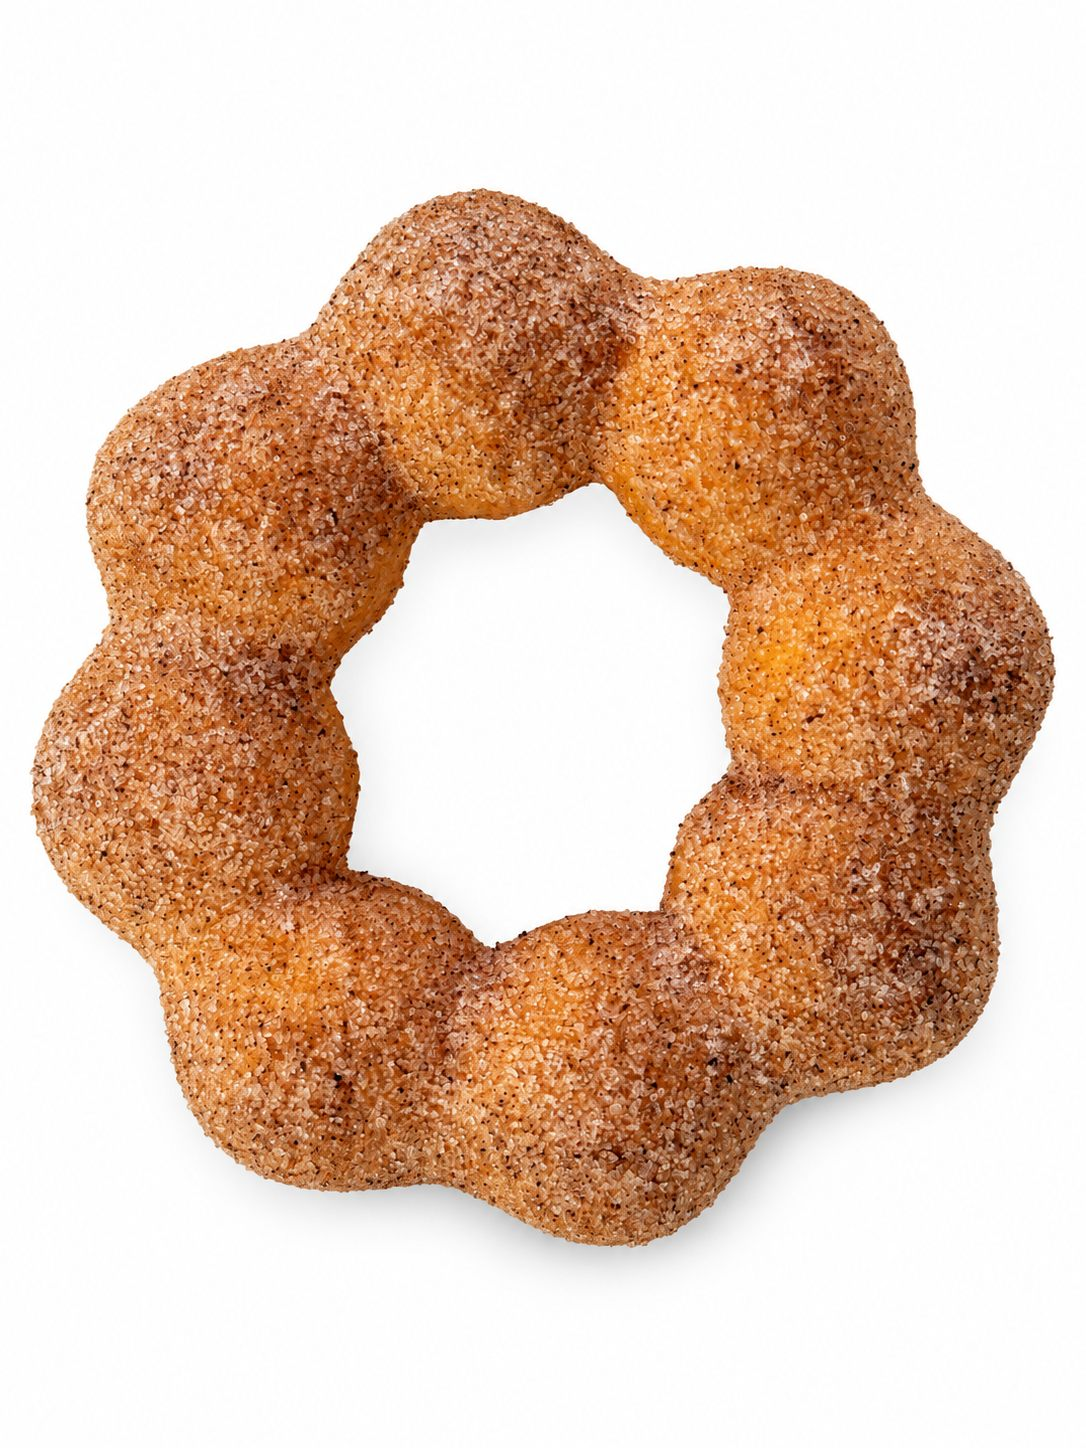
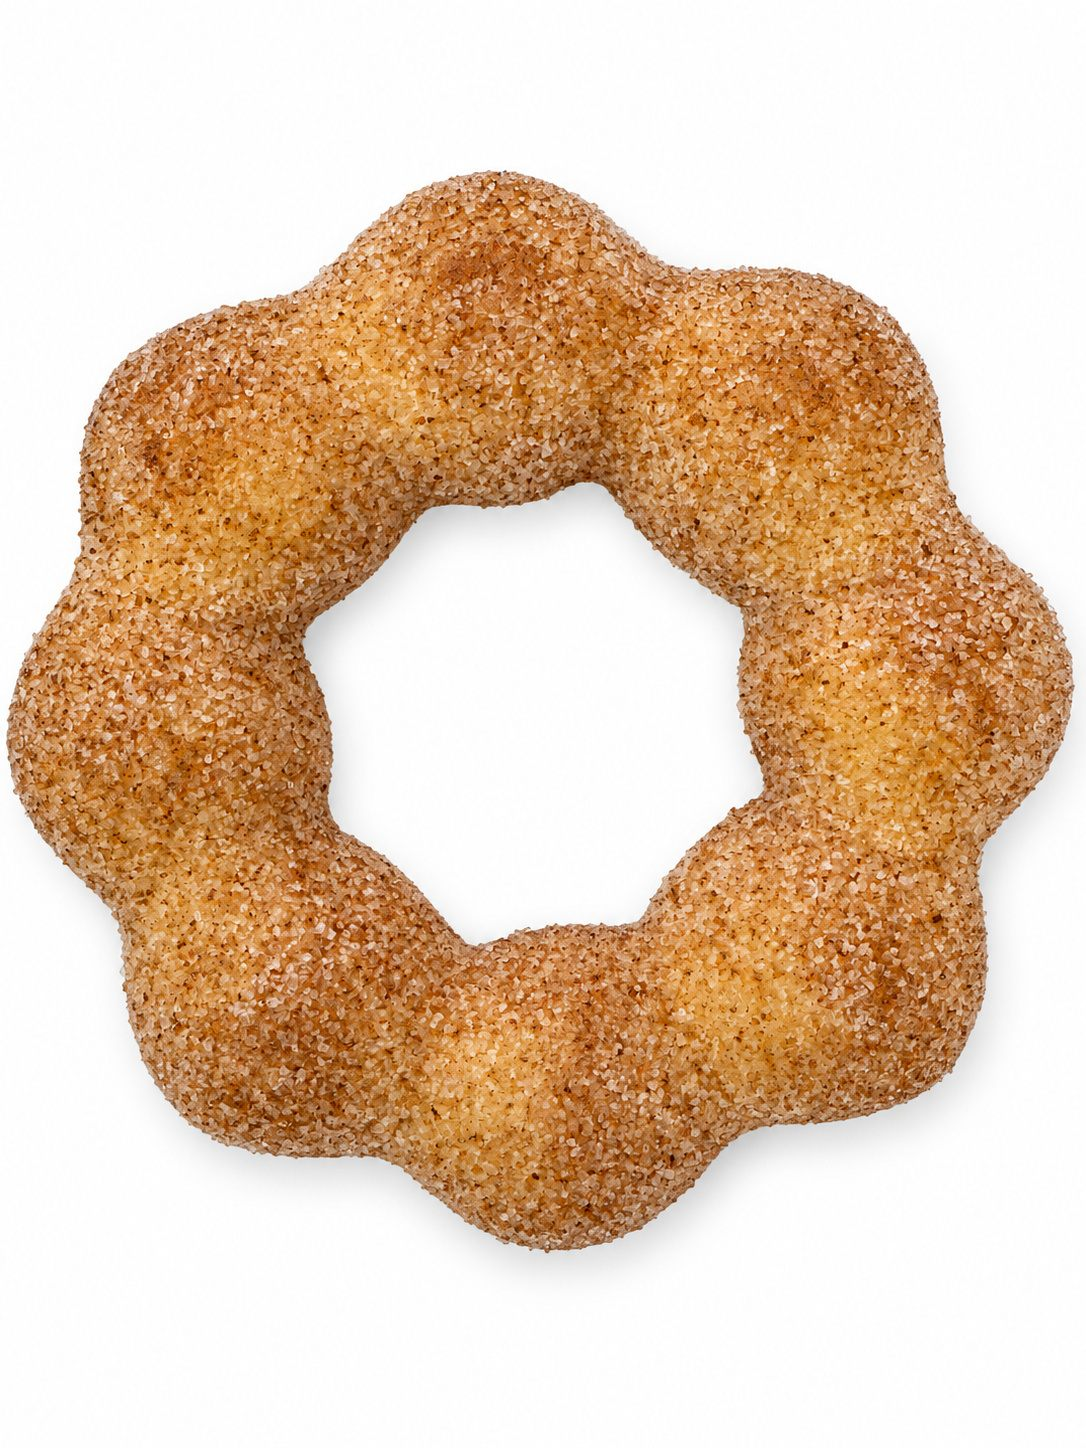
Add files via upload

diff --git a/index.html b/index.html
@@ -442,7 +442,7 @@
     <div class="week-redesign">
       <div class="week-hero-split">
         <div class="week-hero-photo" id="week-feature-card">
-          <img class="week-hero-img" id="week-feature-img" src="ChocolateSprinkles-hero.jpg" alt="Chocolate Sprinkles mochi donut" loading="lazy"/>
+          <img class="week-hero-img" id="week-feature-img" src="LavenderLemonCookie-hero.jpg" alt="Lavender Lemon Cookie mochi donut" loading="lazy"/>
           <div class="week-hero-scrim"></div>
           <svg class="week-doodle week-doodle-1" viewBox="0 0 60 60" aria-hidden="true"><circle cx="30" cy="30" r="20" fill="none" stroke="#fff" stroke-width="2" opacity=".5"/><circle cx="30" cy="30" r="7" fill="none" stroke="#fff" stroke-width="2" opacity=".5"/></svg>
           <svg class="week-doodle week-doodle-2" viewBox="0 0 60 70" aria-hidden="true"><path d="M14 22h32l-4 40a4 4 0 0 1-4 4H22a4 4 0 0 1-4-4z" fill="none" stroke="#fff" stroke-width="2" opacity=".5"/><path d="M20 22a10 10 0 0 1 20 0" fill="none" stroke="#fff" stroke-width="2" opacity=".5"/></svg>
@@ -450,7 +450,7 @@
           <button class="week-arrow week-arrow-onphoto-right" data-dir="next" aria-label="Next flavor">&#8250;</button>
           <div class="week-hero-overlay">
             <span class="week-feature-badge" id="week-feature-badge">Featured Flavor</span>
-            <h3 class="week-feature-name" id="week-feature-name">Chocolate Sprinkles</h3>
+            <h3 class="week-feature-name" id="week-feature-name">Lavender Lemon Cookie</h3>
             <p class="week-feature-desc" id="week-feature-desc" style="display:none"></p>
             <div class="week-feature-icons">
               <div class="wfi wfi-onphoto"><svg viewBox="0 0 24 24" fill="none" stroke="currentColor" stroke-width="1.8" stroke-linecap="round" stroke-linejoin="round"><circle cx="12" cy="12" r="9"/><path d="M12 7v5l3 3"/></svg><span>Made Fresh Daily</span></div>
@@ -465,7 +465,7 @@
         <div class="week-side fade-in-scroll">
           <svg class="week-side-icon" viewBox="0 0 24 24" fill="none" stroke="var(--pink)" stroke-width="1.8" stroke-linecap="round" stroke-linejoin="round" aria-hidden="true"><circle cx="12" cy="12" r="9"/><circle cx="12" cy="12" r="3"/></svg>
           <span class="tag">Mochi Donuts</span>
-          <h2 class="week-h2 week-side-name" id="week-side-name">Chocolate Sprinkles <span class="week-heart">&#9825;</span></h2>
+          <h2 class="week-h2 week-side-name" id="week-side-name">Lavender Lemon Cookie <span class="week-heart">&#9825;</span></h2>
           <p class="week-desc week-side-desc" id="week-side-desc">Handcrafted fresh every morning in small batches with lots of love.</p>
           <div class="week-side-btns">
             <a href="https://bestiesboba.square.site/" target="_blank" rel="noopener noreferrer"><button class="btn-fill btn-big btn-icon"><svg viewBox="0 0 24 24" fill="none" stroke="currentColor" stroke-width="2" stroke-linecap="round" stroke-linejoin="round"><path d="M6 2 3 6v14a2 2 0 0 0 2 2h14a2 2 0 0 0 2-2V6l-3-4Z"/><path d="M3 6h18"/><path d="M16 10a4 4 0 0 1-8 0"/></svg>Order Now</button></a>
@@ -479,15 +479,15 @@
         <div class="week-thumb-row">
         <button class="week-arrow week-arrow-small" data-dir="prev" aria-label="Previous flavor">&#8249;</button>
         <div class="week-thumbs" id="week-thumbs">
-          <button class="week-thumb is-active" data-index="0" data-img="ChocolateSprinkles-hero.jpg" data-name="Chocolate Sprinkles" data-desc="" data-badge="Featured Flavor"><img src="ChocolateSprinkles-thumb.jpg" alt="Chocolate Sprinkles" loading="lazy"/></button>
-          <button class="week-thumb" data-index="1" data-img="OrangeCreamsicle-hero.jpg" data-name="Orange Creamsicle" data-desc="" data-badge=""><img src="OrangeCreamsicle-thumb.jpg" alt="Orange Creamsicle" loading="lazy"/></button>
-          <button class="week-thumb" data-index="2" data-img="MaplePecan-hero.jpg" data-name="Maple Pecan" data-desc="" data-badge=""><img src="MaplePecan-thumb.jpg" alt="Maple Pecan" loading="lazy"/></button>
-          <button class="week-thumb" data-index="3" data-img="FunnelCake-hero.jpg" data-name="Funnel Cake" data-desc="" data-badge=""><img src="FunnelCake-thumb.jpg" alt="Funnel Cake" loading="lazy"/></button>
-          <button class="week-thumb" data-index="4" data-img="CookieMonster-hero.jpg" data-name="Cookie Monster" data-desc="" data-badge=""><img src="CookieMonster-thumb.jpg" alt="Cookie Monster" loading="lazy"/></button>
-          <button class="week-thumb" data-index="5" data-img="ChocolateBiscoff-hero.jpg" data-name="Chocolate Biscoff" data-desc="" data-badge=""><img src="ChocolateBiscoff-thumb.jpg" alt="Chocolate Biscoff" loading="lazy"/></button>
-          <button class="week-thumb" data-index="6" data-img="StrawberryWafer-hero.jpg" data-name="Strawberry Wafer" data-desc="" data-badge=""><img src="StrawberryWafer-thumb.jpg" alt="Strawberry Wafer" loading="lazy"/></button>
-          <button class="week-thumb" data-index="7" data-img="CinnamonPebbles-hero.jpg" data-name="Cinnamon Pebbles" data-desc="" data-badge=""><img src="CinnamonPebbles-thumb.jpg" alt="Cinnamon Pebbles" loading="lazy"/></button>
-          <button class="week-thumb" data-index="8" data-img="UbeCookiesCream-hero.jpg" data-name="Ube Cookies &amp; Cream" data-desc="" data-badge=""><img src="UbeCookiesCream-thumb.jpg" alt="Ube Cookies &amp; Cream" loading="lazy"/></button>
+          <button class="week-thumb is-active" data-index="0" data-img="LavenderLemonCookie-hero.jpg" data-name="Lavender Lemon Cookie" data-desc="" data-badge="Featured Flavor"><img src="LavenderLemonCookie-thumb.jpg" alt="Lavender Lemon Cookie" loading="lazy"/></button>
+          <button class="week-thumb" data-index="1" data-img="PumpkinSpiceCheesecake-hero.jpg" data-name="Pumpkin Spice Cheesecake" data-desc="" data-badge=""><img src="PumpkinSpiceCheesecake-thumb.jpg" alt="Pumpkin Spice Cheesecake" loading="lazy"/></button>
+          <button class="week-thumb" data-index="2" data-img="MintOreo-hero.jpg" data-name="Mint Oreo" data-desc="" data-badge=""><img src="MintOreo-thumb.jpg" alt="Mint Oreo" loading="lazy"/></button>
+          <button class="week-thumb" data-index="3" data-img="FunnelCakeChocolateDip-hero.jpg" data-name="Funnel Cake + Chocolate Dip" data-desc="" data-badge=""><img src="FunnelCakeChocolateDip-thumb.jpg" alt="Funnel Cake + Chocolate Dip" loading="lazy"/></button>
+          <button class="week-thumb" data-index="4" data-img="TaroFruityPebbles-hero.jpg" data-name="Taro Fruity Pebbles" data-desc="" data-badge=""><img src="TaroFruityPebbles-thumb.jpg" alt="Taro Fruity Pebbles" loading="lazy"/></button>
+          <button class="week-thumb" data-index="5" data-img="Churro-hero.jpg" data-name="Churro" data-desc="" data-badge=""><img src="Churro-thumb.jpg" alt="Churro" loading="lazy"/></button>
+          <button class="week-thumb" data-index="6" data-img="ChocoPandas-hero.jpg" data-name="Choco Pandas" data-desc="" data-badge=""><img src="ChocoPandas-thumb.jpg" alt="Choco Pandas" loading="lazy"/></button>
+          <button class="week-thumb" data-index="7" data-img="StrawberryFrostedFlakes-hero.jpg" data-name="Strawberry Frosted Flakes" data-desc="" data-badge=""><img src="StrawberryFrostedFlakes-thumb.jpg" alt="Strawberry Frosted Flakes" loading="lazy"/></button>
+          <button class="week-thumb" data-index="8" data-img="ChocolateChip-hero.jpg" data-name="Chocolate Chip" data-desc="" data-badge=""><img src="ChocolateChip-thumb.jpg" alt="Chocolate Chip" loading="lazy"/></button>
         </div>
         <button class="week-arrow week-arrow-small" data-dir="next" aria-label="Next flavor">&#8250;</button>
         </div>
